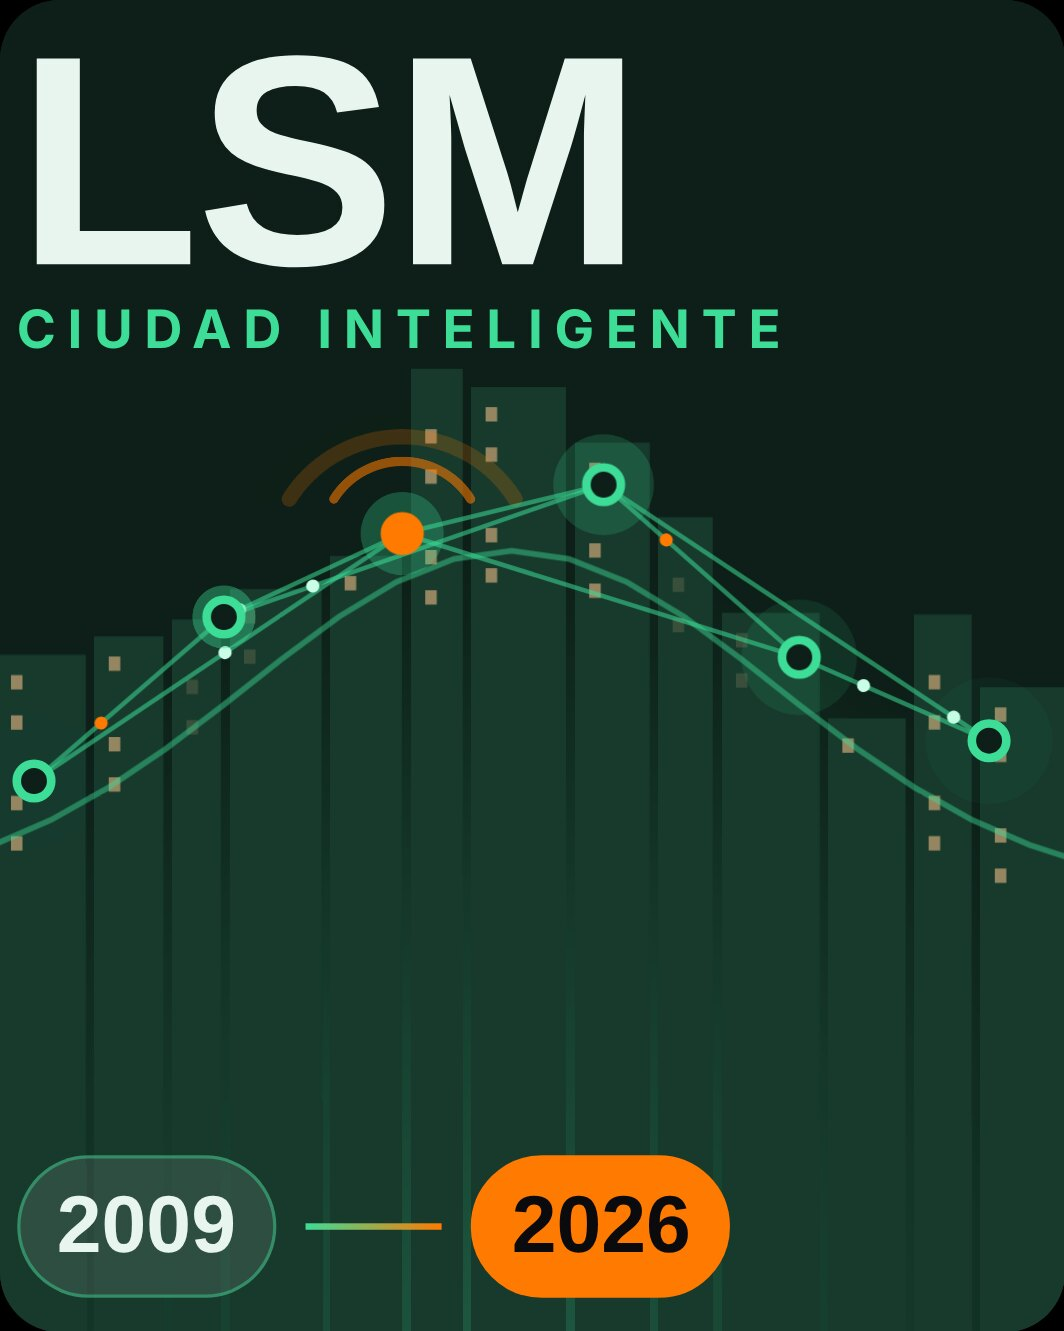
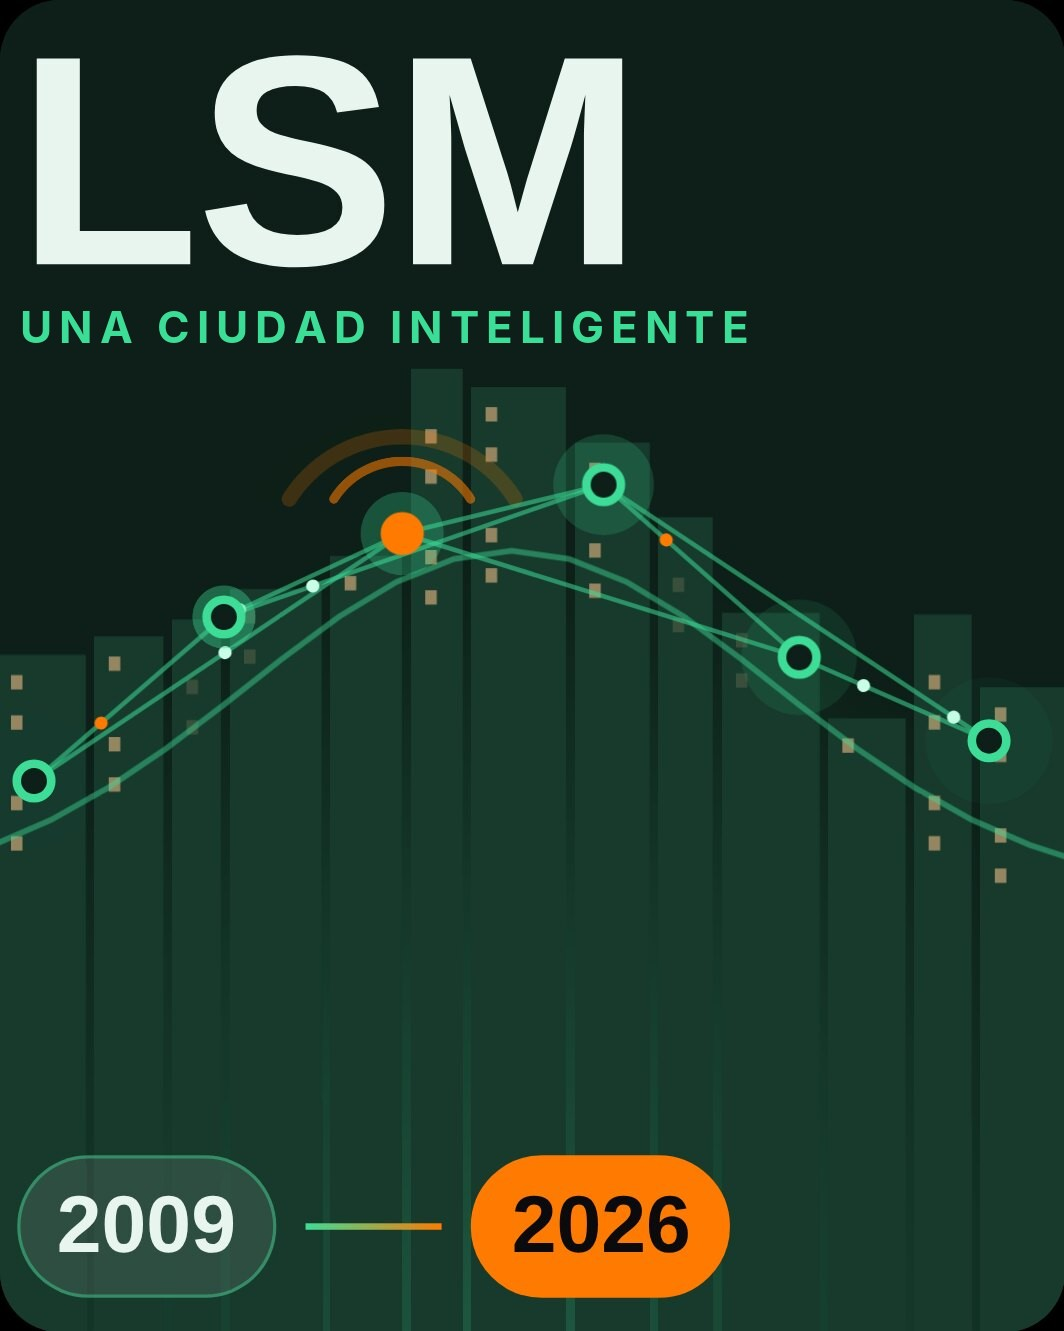
LSM: el proyecto se llama «LSM, una ciudad inteligente»
Claude-Session: https://claude.ai/code/session_01Wjox9miDTJG44k2scsXsTd

Changed region(s): [[0.0, 0.2156, 0.7444, 0.2772]]

diff --git a/assets/js/app.js b/assets/js/app.js
@@ -225,7 +225,7 @@ function fechaCorta(f = '') {
 // Portada de cada proyecto en la lista de inicio. Dos portadas están armadas en vivo:
 // - Grupo con partes y emblema (Conquistadores): cada clase es un libro en el estante, con su emblema centrado.
 // - Reproductor (Mis Cantos): el disco gira con su púa y las barritas siguen la música.
-// - "Animación: ciudad" (LSM Ciudad Inteligente): la colina se llena de edificios y la red se enciende.
+// - "Animación: ciudad" (LSM, una ciudad inteligente): la colina se llena de edificios y la red se enciende.
 function fotoProyecto(p) {
   if (p.animacion === 'ciudad') return `<div class="proyecto__foto">${portadaCiudad(p)}</div>`;
   if (p.emblema && p.partes && p.partes.length) return `<div class="proyecto__foto proyecto__foto--libros">${portadaLibros(p)}</div>`;
@@ -268,7 +268,7 @@ function portadaDisco(p) {
     </div>`;
 }
 
-// Portada animada de LSM Ciudad Inteligente: una colina con edificios que crecen,
+// Portada animada de «Libertador San Martín, una ciudad inteligente»: una colina con edificios que crecen,
 // nodos que laten, paquetes que viajan por la red y una antena que emite desde la plaza.
 // ancha = true dibuja la versión apaisada para la página del proyecto (llena el marco, sin bandas negras).
 function portadaCiudad(p, ancha = false, sufijo = '') {
@@ -308,7 +308,7 @@ function portadaCiudad(p, ancha = false, sufijo = '') {
         <g class="ciudad__paquetes">${paquetes}</g>
         ${puntos}
       </svg>
-      <span class="ciudad__marca"><b>LSM</b><i>Ciudad inteligente</i></span>
+      <span class="ciudad__marca"><b>LSM</b><i>una ciudad inteligente</i></span>
       <span class="ciudad__años"><b>2009</b><i></i><b>2026</b></span>
     </div>`;
 }

diff --git a/assets/css/style.css b/assets/css/style.css
@@ -1861,7 +1861,7 @@ body.con-mini .pie { padding-bottom: 6rem; }
   .eq-portada i:nth-child(odd) { height: 70%; }
 }
 
-/* LSM Ciudad Inteligente: la colina se llena de edificios y la red se enciende */
+/* LSM, una ciudad inteligente: la colina se llena de edificios y la red se enciende */
 .ciudad { background: #0d1f18; container-type: inline-size; }
 .ciudad svg { position: absolute; inset: 0; width: 100%; height: 100%; }
 .ciudad__edif { transform-box: fill-box; transform-origin: 50% 100%; animation: ciudad-crece 1.4s var(--ease-out, cubic-bezier(.2,.8,.2,1)) both; animation-delay: calc(var(--i) * 70ms); }

diff --git a/README.md b/README.md
@@ -48,7 +48,7 @@ Descrizione in italiano.
 ```
 
 - Las primeras líneas (`Título:`, `Fecha:`, `Enlace:`, `Portada:`) son opcionales.
-- `Animación: ciudad` arma una portada animada en vivo (colina, edificios que crecen y red que se enciende), como en *LSM Ciudad Inteligente*.
+- `Animación: ciudad` arma una portada animada en vivo (colina, edificios que crecen y red que se enciende), como en *LSM, una ciudad inteligente*.
 - El texto sin marca vale para todos los idiomas. Si agregás bloques `[en]`, `[fr]`, `[de]`, `[pt]`, `[it]`, cada visitante ve el suyo. También podés poner `Título:` dentro de un bloque.
 - Si no ponés `Título:`, se usa el nombre de la carpeta (`SanMarino` se muestra como "San Marino").
 
